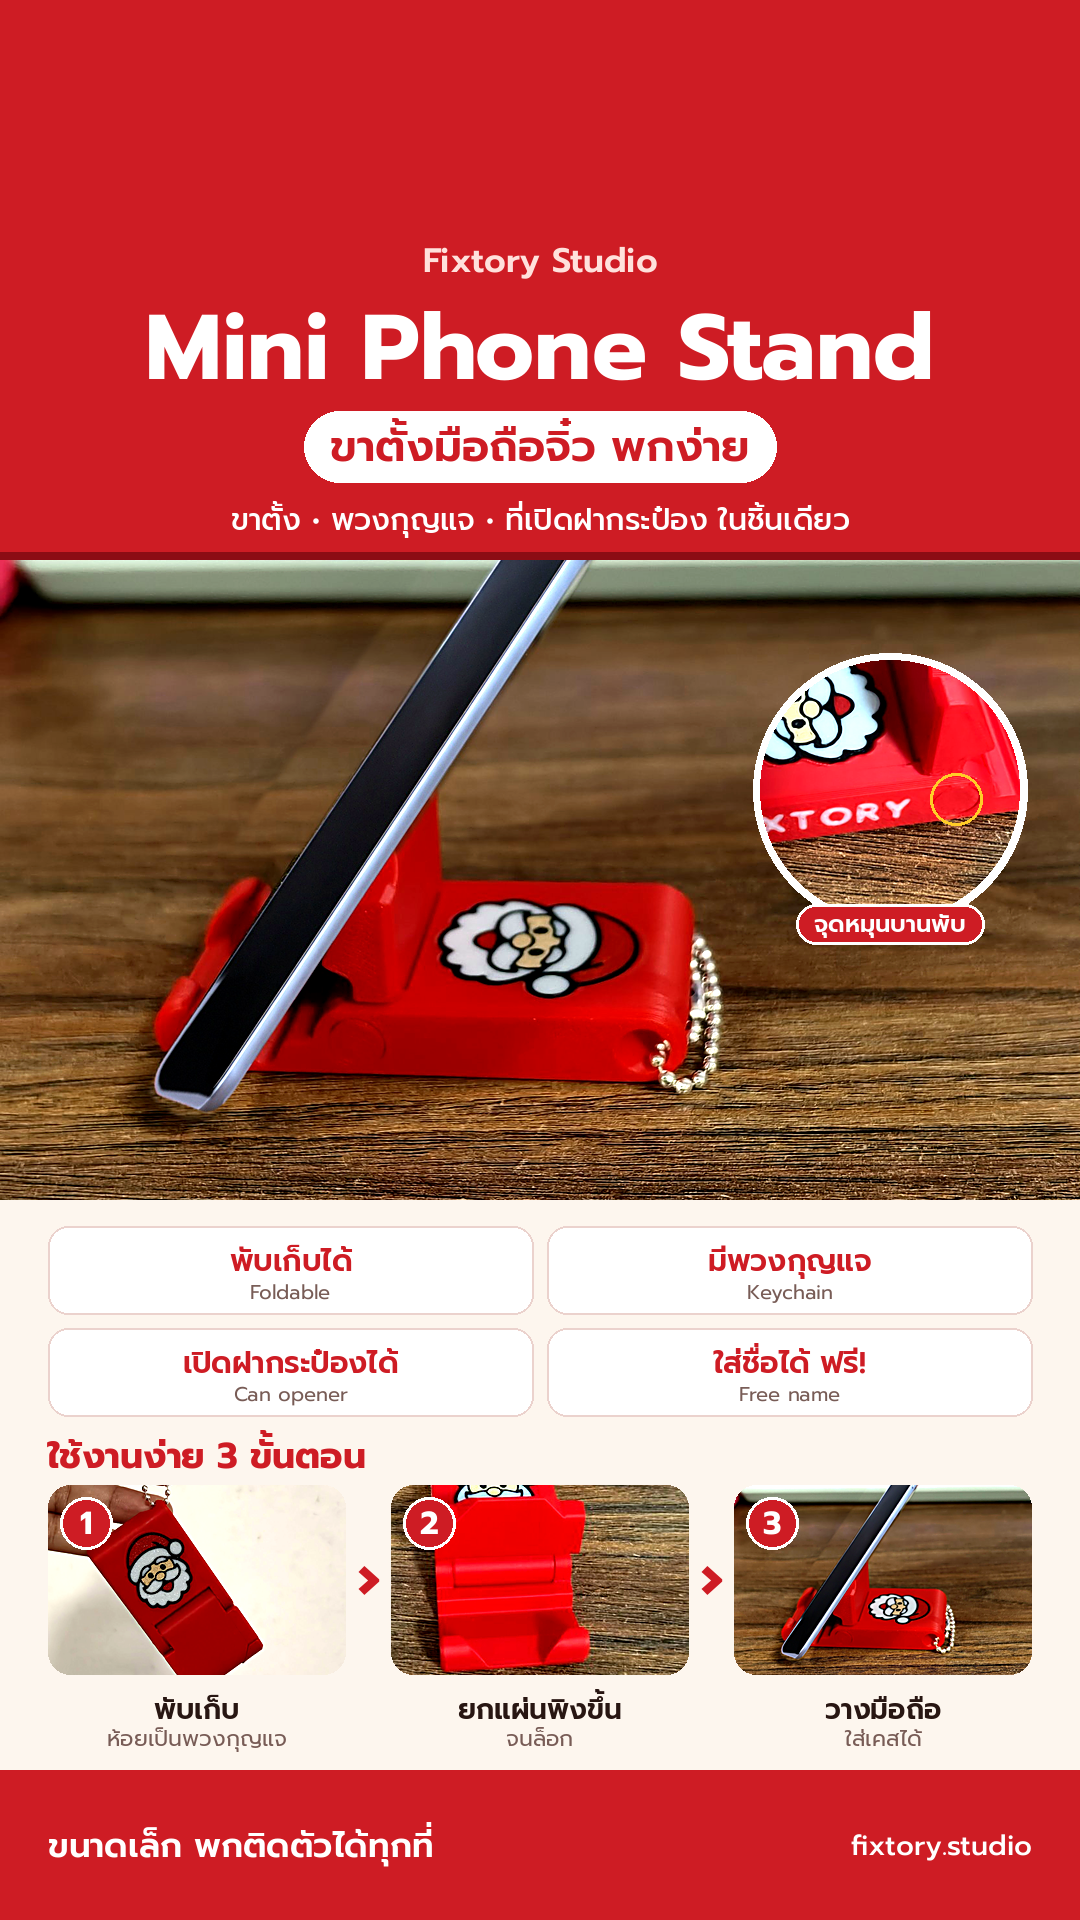
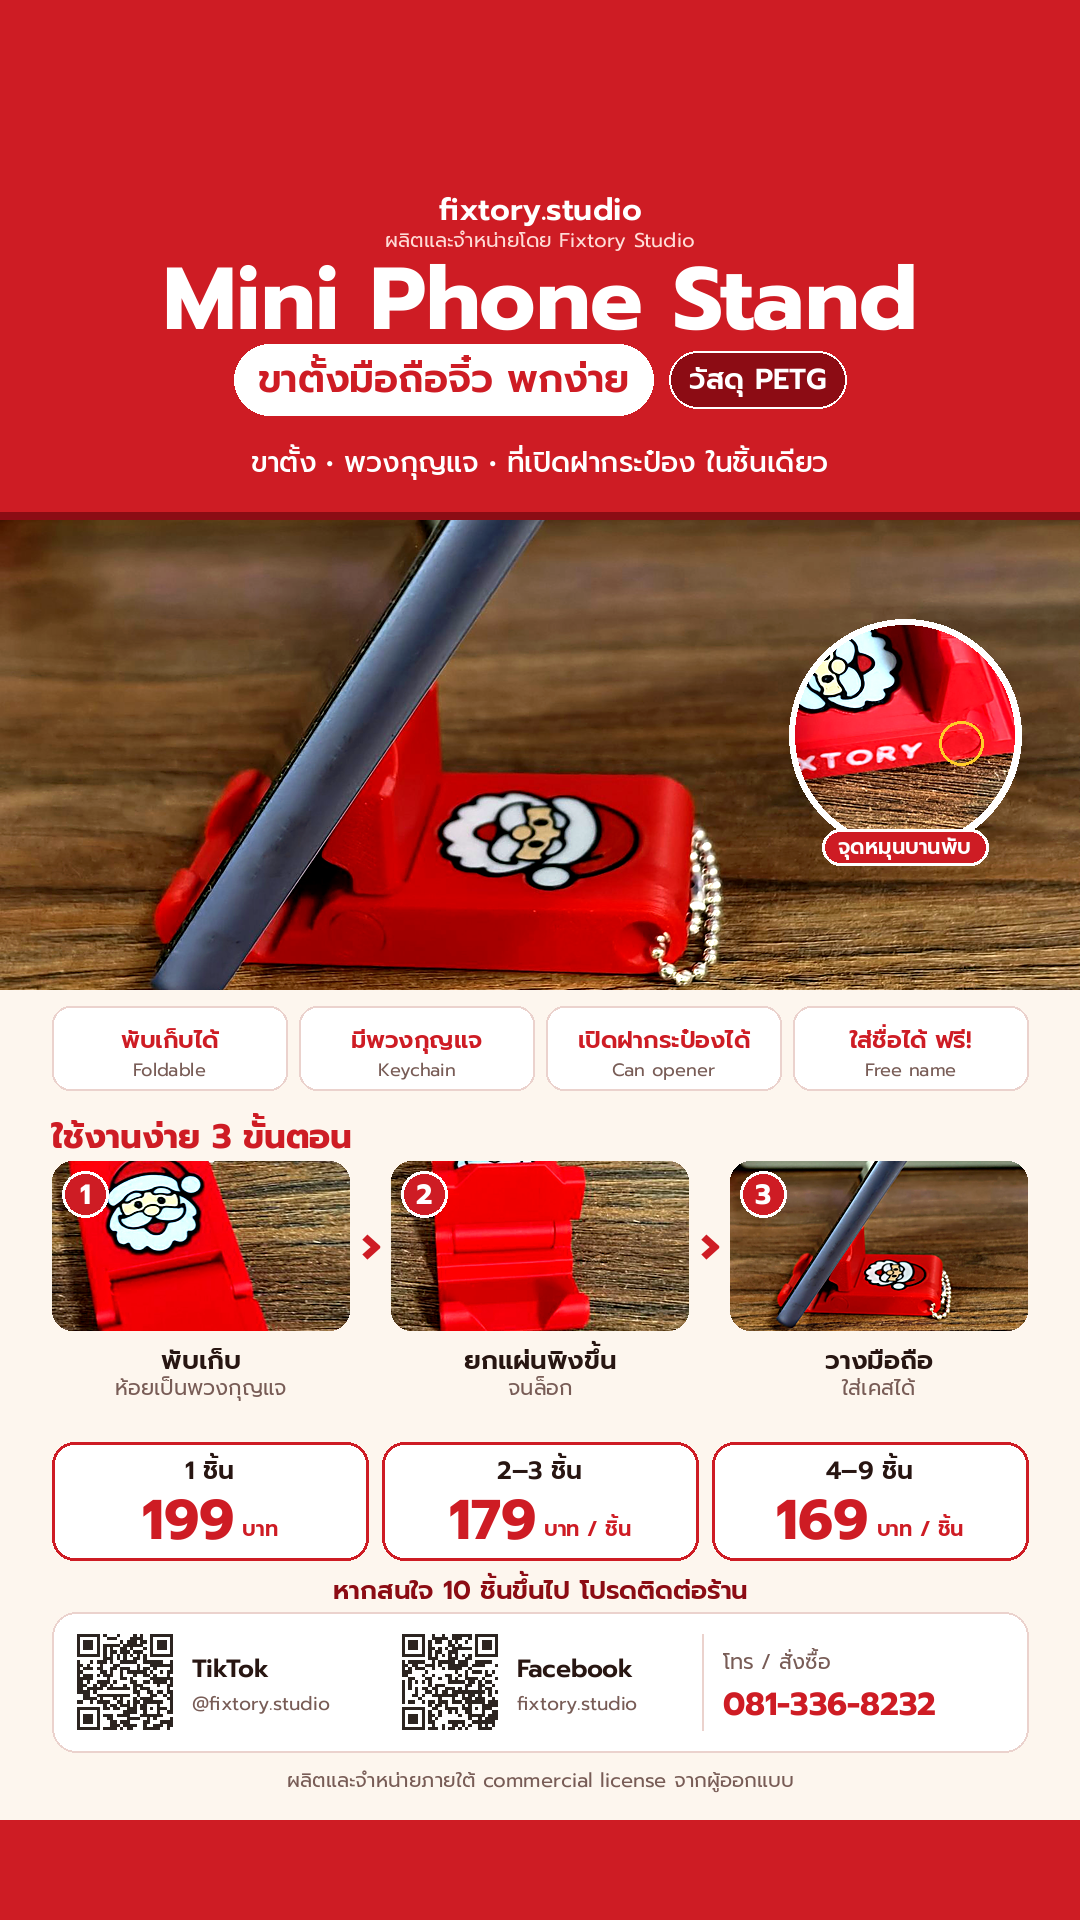
ref: social set v2 - standard poster elements + real phone (08_clean)
Per PM review: price tiers 199/179/169 + 10+ line, TikTok/Facebook QR (decoded OK),
081-336-8232, 'ผลิตและจำหน่ายโดย Fixtory Studio', PETG pill, commercial-licence credit;
hero/step 3 back to 08_clean.jpg; step 1 = crop_s1.jpg.

Claude-Session: https://claude.ai/code/session_019RUqraWLLV2PRspZjKHWCw

diff --git a/ref/phonestand-photos/social_v2_make.py b/ref/phonestand-photos/social_v2_make.py
@@ -1,0 +1,200 @@
+"""Mini Phone Stand social set v2 (Marketing) - real photos, with the shop's standard poster elements
+(same as poster_v3: price tiers, 10+ line, TikTok/Facebook QR, phone, 'ผลิตและจำหน่ายโดย Fixtory Studio',
+PETG pill, commercial-licence credit). Hero = 08_clean.jpg (real phone, scuffs removed).
+Outputs: mini_phone_stand_1x1.png, mini_phone_stand_9x16.png, mini_phone_stand_2x3_alt.png
+"""
+from PIL import Image, ImageDraw, ImageFont, ImageOps, ImageEnhance, ImageFilter
+import os
+
+D = os.path.dirname(os.path.abspath(__file__))
+F = os.path.expanduser('~/.fonts/')
+RED, DRED, CREAM, INK, MUTED = (206, 28, 36), (140, 12, 20), (253, 246, 238), (40, 22, 18), (120, 92, 86)
+LINE = (235, 210, 205)
+GOLD = (255, 205, 40)
+
+PRICES = [('1 ชิ้น', '199', 'บาท'), ('2–3 ชิ้น', '179', 'บาท / ชิ้น'), ('4–9 ชิ้น', '169', 'บาท / ชิ้น')]
+FEATS = [('พับเก็บได้', 'Foldable'), ('มีพวงกุญแจ', 'Keychain'),
+         ('เปิดฝากระป๋องได้', 'Can opener'), ('ใส่ชื่อได้ ฟรี!', 'Free name')]
+HERO = ('08_clean.jpg', (0, 300, 1666, 1900))
+HINGE = ('13.jpg', (560, 840, 1140, 1420)); HINGE_DOT = (438 / 580, 312 / 580)
+STEPS = [('crop_s1.jpg', None, 'พับเก็บ', 'ห้อยเป็นพวงกุญแจ'),
+         ('crop_s2.jpg', None, 'ยกแผ่นพิงขึ้น', 'จนล็อก'),
+         ('08_clean.jpg', (0, 560, 1500, 1560), 'วางมือถือ', 'ใส่เคสได้')]
+
+
+def font(w, s):
+    return ImageFont.truetype(F + 'Prompt-%s.ttf' % w, s, layout_engine=ImageFont.Layout.RAQM)
+
+
+def photo(name, box=None):
+    im = Image.open(os.path.join(D, name)).convert('RGB')
+    if box:
+        im = im.crop(box)
+    im = ImageOps.autocontrast(im, cutoff=0.4, preserve_tone=True)
+    im = ImageEnhance.Brightness(im).enhance(1.04)
+    im = ImageEnhance.Contrast(im).enhance(1.06)
+    return ImageEnhance.Color(im).enhance(1.04)
+
+
+def fit(im, size, centering=(0.5, 0.5)):
+    return ImageOps.fit(im, size, Image.LANCZOS, centering=centering).filter(
+        ImageFilter.UnsharpMask(radius=1.6, percent=70, threshold=3))
+
+
+class Poster:
+    def __init__(self, w, h):
+        self.W, self.H = w, h
+        self.im = Image.new('RGB', (w, h), CREAM)
+        self.d = ImageDraw.Draw(self.im)
+
+    def text(self, xy, s, f, fill, anchor='la'):
+        self.d.text(xy, s, font=f, fill=fill, anchor=anchor)
+
+    def fitfont(self, s, w, size, maxw):
+        while self.d.textlength(s, font=font(w, size)) > maxw:
+            size -= 1
+        return font(w, size)
+
+    def header(self, y0, y1, title=84, center=False, pad=52):
+        W, d = self.W, self.d
+        d.rectangle((0, y0, W, y1), fill=RED)
+        d.rectangle((0, y1 - 8, W, y1), fill=DRED)
+        h = y1 - y0 - 8
+        x = W / 2 if center else pad
+        a = 'm' if center else 'l'
+        s = title / 84
+        self.text((x, y0 + h * 0.09), 'fixtory.studio', font('SemiBold', int(30 * s)), 'white', a + 'm')
+        self.text((x, y0 + h * 0.18), 'ผลิตและจำหน่ายโดย Fixtory Studio', font('Regular', int(20 * s)), (255, 220, 215), a + 'm')
+        self.text((x, y0 + h * 0.36), 'Mini Phone Stand', font('Bold', title), 'white', a + 'm')
+        # subtitle pill + PETG pill on one row
+        fs, fm = font('SemiBold', int(38 * s)), font('SemiBold', int(28 * s))
+        sub, mat = 'ขาตั้งมือถือจิ๋ว พกง่าย', 'วัสดุ PETG'
+        sw, mw = d.textlength(sub, font=fs), d.textlength(mat, font=fm)
+        ph, gap = 34 * s, 16
+        total = sw + 48 + gap + mw + 40
+        bx = W / 2 - total / 2 if center else pad - 4
+        yc = y0 + h * 0.60
+        d.rounded_rectangle((bx, yc - ph, bx + sw + 48, yc + ph), ph, fill='white')
+        self.text((bx + 24, yc), sub, fs, RED, 'lm')
+        mx = bx + sw + 48 + gap
+        d.rounded_rectangle((mx, yc - ph * 0.8, mx + mw + 40, yc + ph * 0.8), ph, fill=DRED, outline='white', width=2)
+        self.text((mx + 20, yc), mat, fm, 'white', 'lm')
+        self.text((x, y0 + h * 0.85), 'ขาตั้ง • พวงกุญแจ • ที่เปิดฝากระป๋อง ในชิ้นเดียว',
+                  font('Medium', int(27 * s)), 'white', a + 'm')
+
+    def hero(self, y0, h, centering=(0.6, 0.45)):
+        name, box = HERO
+        self.im.paste(fit(photo(name, box), (self.W, h), centering), (0, y0))
+
+    def hinge(self, cx, cy, r, ls=22):
+        c = fit(photo(*HINGE), (2 * r, 2 * r))
+        m = Image.new('L', c.size, 0); ImageDraw.Draw(m).ellipse((0, 0, 2 * r - 1, 2 * r - 1), fill=255)
+        self.d.ellipse((cx - r - 6, cy - r - 6, cx + r + 6, cy + r + 6), fill='white')
+        self.im.paste(c, (cx - r, cy - r), m)
+        dx, dy = cx - r + HINGE_DOT[0] * 2 * r, cy - r + HINGE_DOT[1] * 2 * r
+        rr = r * 0.2
+        self.d.ellipse((dx - rr, dy - rr, dx + rr, dy + rr), outline=GOLD, width=max(3, r // 40))
+        lab = 'จุดหมุนบานพับ'; fl = font('SemiBold', ls); lw = self.d.textlength(lab, font=fl)
+        ly = cy + r + 2
+        self.d.rounded_rectangle((cx - lw / 2 - 16, ly - ls * 0.85, cx + lw / 2 + 16, ly + ls * 0.85), ls,
+                                 fill=RED, outline='white', width=3)
+        self.text((cx, ly), lab, fl, 'white', 'mm')
+
+    def chips(self, y0, h=84, pad=52, gap=12, th=24, en=18):
+        cw = (self.W - 2 * pad - 3 * gap) / 4
+        for i, (t, e) in enumerate(FEATS):
+            x = pad + i * (cw + gap)
+            self.d.rounded_rectangle((x, y0, x + cw, y0 + h), 18, fill='white', outline=LINE, width=2)
+            self.text((x + cw / 2, y0 + h * 0.40), t, self.fitfont(t, 'SemiBold', th, cw - 16), RED, 'mm')
+            self.text((x + cw / 2, y0 + h * 0.76), e, font('Regular', en), MUTED, 'mm')
+
+    def steps(self, y0, ph=190, pad=52, head=34, t1=26, t2=21):
+        W, d = self.W, self.d
+        self.text((pad, y0), 'ใช้งานง่าย 3 ขั้นตอน', font('Bold', head), RED)
+        sw = int((W - 2 * pad - 2 * 40) / 3); gap = (W - 2 * pad - 3 * sw) / 2
+        y = y0 + int(head * 1.5)
+        for i, (fn, box, a, b) in enumerate(STEPS):
+            x = int(pad + i * (sw + gap))
+            ph_im = fit(photo(fn, box), (sw, ph))
+            m = Image.new('L', (sw, ph), 0); ImageDraw.Draw(m).rounded_rectangle((0, 0, sw - 1, ph - 1), 20, fill=255)
+            self.im.paste(ph_im, (x, y), m)
+            d.ellipse((x + 10, y + 10, x + 56, y + 56), fill=RED, outline='white', width=3)
+            self.text((x + 33, y + 33), str(i + 1), font('Bold', 28), 'white', 'mm')
+            self.text((x + sw / 2, y + ph + t1 * 1.1), a, font('SemiBold', t1), INK, 'mm')
+            self.text((x + sw / 2, y + ph + t1 * 1.1 + t2 * 1.35), b, font('Regular', t2), MUTED, 'mm')
+            if i < 2:
+                self.text((x + sw + gap / 2, y + ph / 2), '›', font('Bold', 52), RED, 'mm')
+
+    def prices(self, y0, h=120, pad=52, gap=14, big=58):
+        W, d = self.W, self.d
+        tw = (W - 2 * pad - 2 * gap) / 3
+        for i, (q, p, u) in enumerate(PRICES):
+            x = pad + i * (tw + gap)
+            d.rounded_rectangle((x, y0, x + tw, y0 + h), 22, fill='white', outline=RED, width=3)
+            self.text((x + tw / 2, y0 + h * 0.24), q, font('SemiBold', int(big * 0.45)), INK, 'mm')
+            fp, fu = font('Bold', big), font('SemiBold', int(big * 0.38))
+            pw, uw = d.textlength(p, font=fp), d.textlength(u, font=fu)
+            sx = x + tw / 2 - (pw + 8 + uw) / 2
+            self.text((sx, y0 + h * 0.66), p, fp, RED, 'lm')
+            self.text((sx + pw + 8, y0 + h * 0.66 + big * 0.16), u, fu, RED, 'lm')
+        self.text((W / 2, y0 + h + 30), 'หากสนใจ 10 ชิ้นขึ้นไป โปรดติดต่อร้าน', font('SemiBold', 26), DRED, 'mm')
+
+    def contact(self, y0, h=140, pad=52, qs=110):
+        W, d = self.W, self.d
+        d.rounded_rectangle((pad, y0, W - pad, y0 + h), 24, fill='white', outline=LINE, width=2)
+        col = (W - 2 * pad) / 3
+        for i, (q, n1, n2) in enumerate([('qr-tiktok.png', 'TikTok', '@fixtory.studio'),
+                                         ('qr-facebook.png', 'Facebook', 'fixtory.studio')]):
+            x = int(pad + 18 + i * col)
+            qr = Image.open(os.path.join(D, q)).convert('RGB').resize((qs, qs), Image.NEAREST)
+            self.im.paste(qr, (x, int(y0 + (h - qs) / 2)))
+            self.text((x + qs + 12, y0 + h * 0.40), n1, font('SemiBold', 25), INK, 'lm')
+            self.text((x + qs + 12, y0 + h * 0.66), n2, self.fitfont(n2, 'Regular', 19, col - qs - 40), MUTED, 'lm')
+        x = pad + 2 * col + 14
+        d.line((x - 14, y0 + 22, x - 14, y0 + h - 22), fill=LINE, width=2)
+        self.text((x + 6, y0 + h * 0.36), 'โทร / สั่งซื้อ', font('Regular', 21), MUTED, 'lm')
+        self.text((x + 6, y0 + h * 0.66), '081-336-8232', self.fitfont('081-336-8232', 'Bold', 32, col - 30), RED, 'lm')
+
+    def credit(self, y):
+        self.text((self.W / 2, y), 'ผลิตและจำหน่ายภายใต้ commercial license จากผู้ออกแบบ', font('Regular', 20), MUTED, 'mm')
+
+    def save(self, name):
+        self.im.save(os.path.join(D, name), optimize=True)
+        print('saved', name, self.im.size)
+
+
+# 1) Square 1:1 (1080) - feed: header, hero, prices, contact, credit
+s = Poster(1080, 1080)
+s.header(0, 290, title=76)
+s.hero(290, 380, centering=(0.6, 0.5))
+s.hinge(915, 465, 92, 19)
+s.prices(688, h=110, big=54)
+s.contact(850, h=130, qs=100)
+s.credit(1050)
+s.save('mini_phone_stand_1x1.png')
+
+# 2) Story 9:16 (1080x1920) - top ~180 px left for the app bar
+t = Poster(1080, 1920)
+t.d.rectangle((0, 0, 1080, 190), fill=RED)
+t.header(180, 520, title=88, center=True)
+t.hero(520, 470, centering=(0.6, 0.47))
+t.hinge(905, 735, 110, 21)
+t.chips(1006)
+t.steps(1110, ph=170)
+t.prices(1442, h=118, big=56)
+t.contact(1612, h=140)
+t.credit(1780)
+t.d.rectangle((0, 1820, 1080, 1920), fill=RED)
+t.save('mini_phone_stand_9x16.png')
+
+# 3) Portrait 2:3 (1024x1536) - title in a solid band, not over the phone
+p = Poster(1024, 1536)
+p.header(0, 320, title=80)
+p.hero(320, 440, centering=(0.6, 0.45))
+p.hinge(855, 525, 100, 20)
+p.chips(774)
+p.steps(876, ph=170)
+p.prices(1196, h=112, big=54)
+p.contact(1368, h=130, qs=100)
+p.credit(1516)
+p.save('mini_phone_stand_2x3_alt.png')
